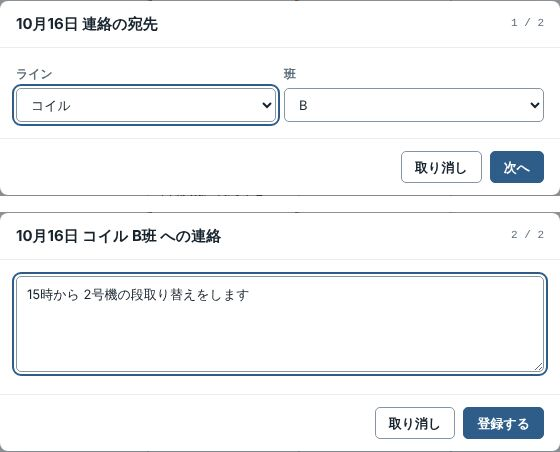
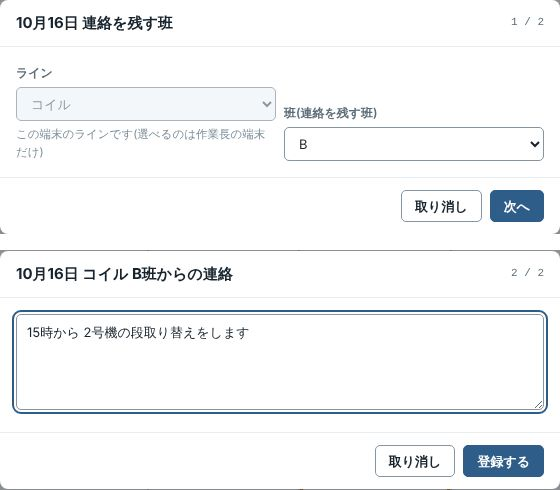
説明書(カレンダー): VER4.2.4 の画面で連絡・内容閲覧・削除の写真を撮り直す
- calendar-comment.jpg: 「連絡を残す班」(ラインはこの端末のラインで押せない・班(連絡を残す班))と
  「コイル B班からの連絡」の窓を上下に並べたもの(560×490)
- calendar-view.jpg: 内容閲覧に「[連絡] コイル B班からの連絡 2026/10/21 08:38」と残した時刻が出る(860×300)
- calendar-delete.jpg: 削除の選択肢にも「コイル B班からの連絡 2026/10/21 08:38」が出る(860×462)
- 「写真は前の版の画面です」の断りを消し、写真の説明(alt)・大きさを新しい画面に合わせる

Claude-Session: https://claude.ai/code/session_01KtAe4LHrEcRRhL5edVQTZj

diff --git a/portal/static/manual/calendar.html b/portal/static/manual/calendar.html
@@ -156,8 +156,8 @@
       <li><div><p>「連絡を残す班」で<b>自分の班</b>を選び、<span class="btnname">次へ</span> を押します。<b>ライン</b>はこのパソコンのラインが選ばれていて、変えられません(ほかのラインへの連絡は、そのラインのパソコンにしか出ないためです)。<b>作業長のパソコンだけ</b>はラインも選べます。ラインを選ぶと、班はそのラインにある班だけになります。</p></div></li>
       <li><div><p>「○○ ○班からの連絡」の窓で連絡の文を入力して <span class="btnname">登録する</span> を押します。</p>
         <figure class="shot" style="max-width:560px">
-          <div class="shot__img"><img src="img/calendar-comment.jpg" loading="lazy" width="560" height="452" alt="上: 10月16日 連絡の宛先 の窓。ライン コイル、班 B を選び、次へ ボタン。下: 10月16日 コイル B班 への連絡 の窓。文 15時から 2号機の段取り替えをします を入力し、登録する ボタン"></div>
-          <figcaption>上: 班を選ぶ(1 / 2) 下: 文を入れる(2 / 2)。写真は前の版の画面です(いまは見出しが「連絡を残す班」「コイル B班からの連絡」で、ラインの欄は作業長のパソコンでだけ選べます)</figcaption>
+          <div class="shot__img"><img src="img/calendar-comment.jpg" loading="lazy" width="560" height="490" alt="上: 10月16日 連絡を残す班 の窓。ライン コイル(この端末のラインで押せない)、班(連絡を残す班) B を選び、次へ ボタン。下: 10月16日 コイル B班からの連絡 の窓。文 15時から 2号機の段取り替えをします を入力し、登録する ボタン"></div>
+          <figcaption>上: 班を選ぶ(1 / 2) 下: 文を入れる(2 / 2)</figcaption>
         </figure>
       </div></li>
       <li><div><p>「<b>コイル B班からの連絡を登録しました</b>」と出て、マスに「コイル:B班 コメント有」と出れば終わりです。</p></div></li>
@@ -168,8 +168,8 @@
     <h3 id="view">内容を見る(内容閲覧)</h3>
     <p>日付を押して <span class="btnname">内容閲覧</span> を押すと、その日の登録がすべて出ます。連絡は「[連絡] コイル B班からの連絡　2026/10/21 14:05」のように、どの班から・いつ残したかと文が出ます。読むだけなので、ここで消えたり変わったりすることはありません。<span class="btnname">閉じる</span> で戻ります。</p>
     <figure class="shot" style="max-width:860px">
-      <div class="shot__img"><img src="img/calendar-view.jpg" loading="lazy" width="860" height="300" alt="2026年10月16日(金)の登録内容。[休み] コイル B班 作業者05 (2直)、1直残業: 作業者01、3直早出: 作業者14。その下に B班 15時から 2号機の段取り替えをします"></div>
-      <figcaption>休みは直と繋ぎの担当者まで、連絡は文まで出ます</figcaption>
+      <div class="shot__img"><img src="img/calendar-view.jpg" loading="lazy" width="860" height="300" alt="2026年10月16日(金)の登録内容。[休み] コイル B班 作業者05 (2直)、1直残業: 作業者01、3直早出: 作業者14。その下に [連絡] コイル B班からの連絡 2026/10/21 08:38、15時から 2号機の段取り替えをします"></div>
+      <figcaption>休みは直と繋ぎの担当者まで、連絡はどの班から・いつ残したかと文まで出ます</figcaption>
     </figure>
 
     <h3 id="delete">まちがえた登録を消す(削除)</h3>
@@ -178,7 +178,7 @@
       <li><div><p>その日の登録が並びます。<b>消したいものだけ</b>にチェックを入れて、<span class="btnname">選んだものを削除</span> を押します。</p></div></li>
       <li><div><p>「削除の確認」が出ます。よければ <span class="btnname">削除する</span>、やめるときは <span class="btnname">やめる</span> を押します。</p>
         <figure class="shot" style="max-width:860px">
-          <div class="shot__img"><img src="img/calendar-delete.jpg" loading="lazy" width="860" height="462" alt="上: 10月16日 削除するものを選んでください。[休み] 作業者05 (2直) と [連絡] 15時から 2号機の段取り替えをします が並び、連絡にチェック。下: 削除の確認 チェックした 1 件を削除します。(削除内容は履歴に記録されます) やめる・削除する のボタン"></div>
+          <div class="shot__img"><img src="img/calendar-delete.jpg" loading="lazy" width="860" height="462" alt="上: 10月16日 削除するものを選んでください。[休み] 作業者05 (2直) と [連絡] 15時から 2号機の段取り替えをします(コイル B班からの連絡 2026/10/21 08:38)が並び、連絡にチェック。下: 削除の確認 チェックした 1 件を削除します。(削除内容は履歴に記録されます) やめる・削除する のボタン"></div>
           <figcaption>上: 消すものにチェック 下: 最後の確認</figcaption>
         </figure>
       </div></li>
